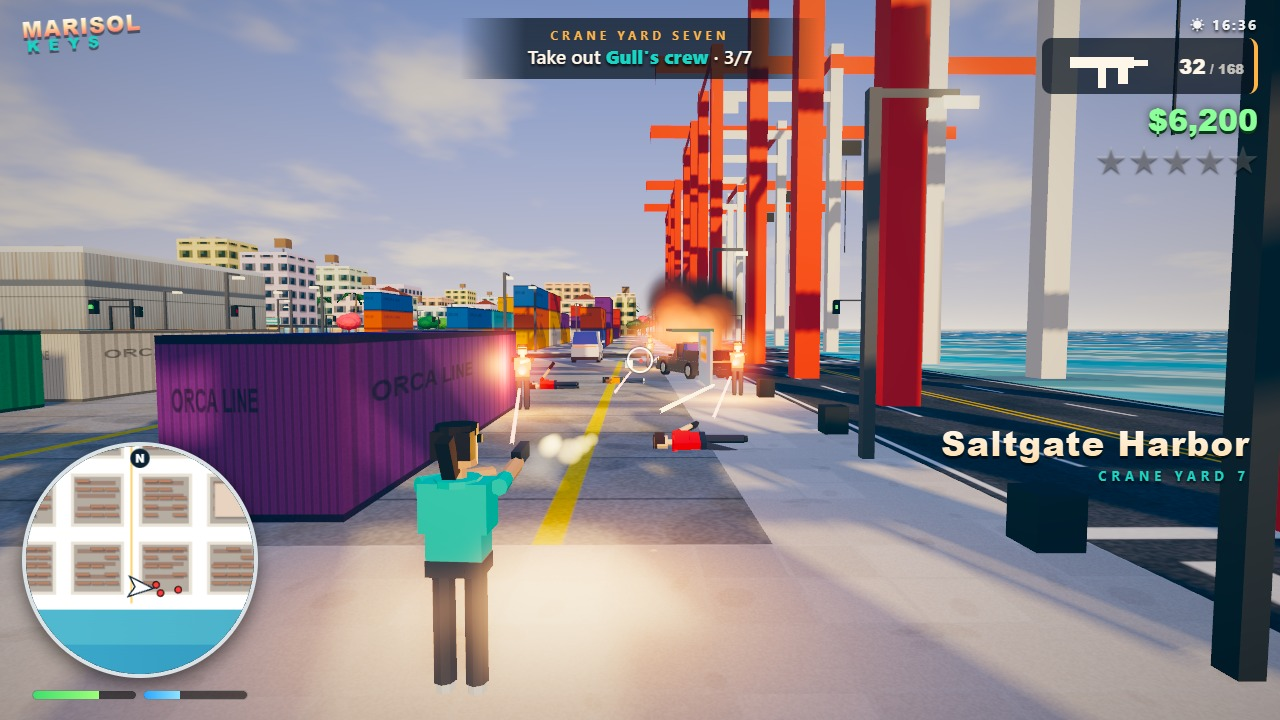
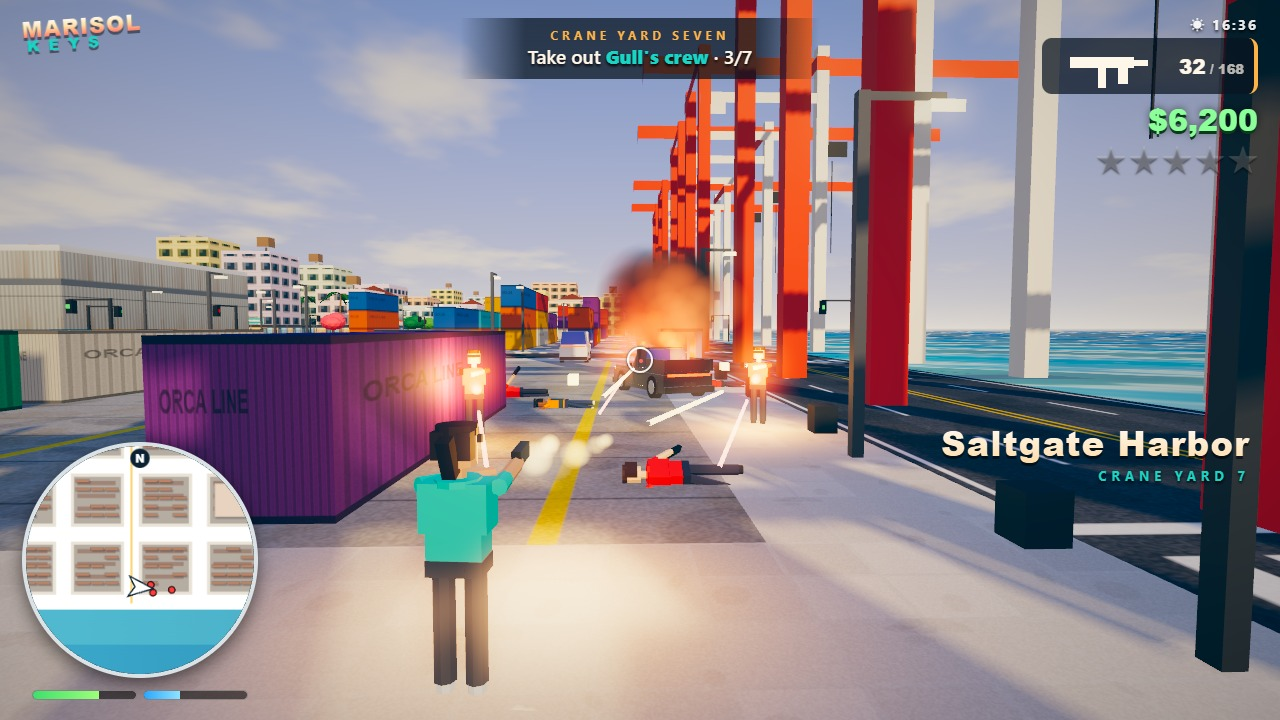
Quay shootout staged closer: larger enemies and burning pickup

diff --git a/game/src/shots/shotScenes.js b/game/src/shots/shotScenes.js
@@ -334,20 +334,20 @@ export const SCENES = {
       p.health = 64;
       p.armor = 35;
       p.aiming = true;
-      const enemies = [[5 * B + 26, 13 * B + 55, 'smg'], [5 * B + 33, 13 * B + 51, 'pistol'], [5 * B + 41, 13 * B + 57, 'smg'], [5 * B + 47, 13 * B + 52.5, 'pistol'], [5 * B + 22, 13 * B + 47, 'pistol']];
+      const enemies = [[5 * B + 19, 13 * B + 54.5, 'smg'], [5 * B + 24, 13 * B + 49.5, 'pistol'], [5 * B + 31, 13 * B + 56, 'smg'], [5 * B + 38, 13 * B + 51.5, 'pistol'], [5 * B + 17, 13 * B + 46.5, 'pistol']];
       for (const [x, z, w] of enemies) {
         const e = new Gunman(game.scene, x, z, GANG_OUTFITS[Math.floor(rng.next() * 3)], 'gang', w);
         e.mode = 'attack';
         e.preferRange = 30;
         game.missions.enemies.push(e);
       }
-      for (const [x, z, h] of [[5 * B + 17, 13 * B + 53, 0.4], [5 * B + 30, 13 * B + 48, 2.2]]) {
+      for (const [x, z, h] of [[5 * B + 14, 13 * B + 52.5, 0.4], [5 * B + 27, 13 * B + 47.5, 2.2]]) {
         const dead = new Gunman(game.scene, x, z, GANG_OUTFITS[1], 'gang', 'pistol');
         dead.state = 'dead';
         dead.heading = h;
         game.missions.enemies.push(dead);
       }
-      const wreck = car(game, 'pickup', 5 * B + 37, 13 * B + 54.5, 1.2, 0, '#2c3e50');
+      const wreck = car(game, 'pickup', 5 * B + 29, 13 * B + 53, 1.2, 0, '#2c3e50');
       wreck.explode();
       wreck.burning = 99;
       car(game, 'van', 5 * B + 52, 13 * B + 47.5, 1.57, 0, '#ffffff');
